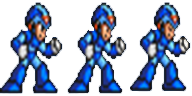
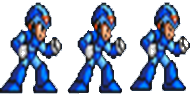
Thêm PlayerStandShootState , Sửa một vài sprite

diff --git a/DemoDirectX/GameObjects/Player/Player.cpp b/DemoDirectX/GameObjects/Player/Player.cpp
@@ -6,19 +6,21 @@
 #include "PlayerClingingState.h"
 #include "PlayerClingingJState.h"
 #include "PlayerDashState.h"
+#include "PlayerStandShootState.h"
 #include "../../GameComponents/GameCollision.h"
 
 float check = 0.0;
 bool isDone = false;
 Player::Player()
 {
-    mAnimationStanding = new Animation("Resources/megaman/pic10.png", 3, 1, 3, 0.2f);
-    mAnimationJumping = new Animation("Resources/megaman/pic4.png", 7, 1, 7, 0.1f);
-    mAnimationRunning = new Animation("Resources/megaman/pic2.png", 11, 1, 11, 0.15f);
-	mAnimationSpawning = new Animation("Resources/megaman/pic7.png", 7, 1, 7, 0.15f);	
+    mAnimationStanding = new Animation("Resources/megaman/standing.png", 3, 1,3 , 1.0f);
+    mAnimationJumping = new Animation("Resources/megaman/pic3.png", 7, 1, 7, 0.1f);
+    mAnimationRunning = new Animation("Resources/megaman/pic2.png", 11, 1, 11, 0.1f);
+	mAnimationSpawning = new Animation("Resources/megaman/pic7.png", 7, 1, 7, 0.2f);	
 	mAnimationClinging = new Animation("Resources/megaman/pic0.png", 3, 1, 3, 0.15f);
 	mAnimationClingingJ = new Animation("Resources/megaman/pic01.png", 2, 1, 2, 0.15f);
 	mAnimationDashing = new Animation("Resources/megaman/dash.png",2,1,2,0.2f,D3DCOLOR_XRGB(0,0,0));
+	mAnimationStandShoot = new Animation("Resources/megaman/standShoot.png", 2, 1, 2, 0.5f);
     this->mPlayerData = new PlayerData();
     this->mPlayerData->player = this;
     this->vx = 0;
@@ -239,6 +241,10 @@ void Player::changeAnimation(PlayerState::StateName state)
 			break;
 		case PlayerState::Dash:
 			mCurrentAnimation = mAnimationDashing;
+			break;
+		case PlayerState::StandShoot:
+			mCurrentAnimation = mAnimationStandShoot;
+			break;
         default:
             break;
     }
@@ -268,7 +274,7 @@ Player::MoveDirection Player::getMoveDirection()
 
 void Player::OnNoCollisionWithBottom()
 {
-    if (mCurrentState != PlayerState::Jumping && mCurrentState != PlayerState::Falling && mCurrentState!= PlayerState::Clinging && mCurrentState != PlayerState::ClingingJ)
+    if (mCurrentState != PlayerState::Jumping && mCurrentState != PlayerState::Falling && mCurrentState!= PlayerState::Clinging && mCurrentState != PlayerState::ClingingJ && mCurrentState !=PlayerState::StandShoot)
     {
         this->SetState(new PlayerFallingState(this->mPlayerData));
     }    

diff --git a/DemoDirectX/GameObjects/Player/PlayerStandShootState.cpp b/DemoDirectX/GameObjects/Player/PlayerStandShootState.cpp
@@ -1,0 +1,32 @@
+#include "PlayerStandShootState.h"
+#include "Player.h"
+#include "PlayerStandingState.h"
+#include "../../GameDefines/GameDefine.h"
+
+PlayerStandShootState::PlayerStandShootState(PlayerData *playerData)
+{
+	this->mPlayerData = playerData;
+	this->mPlayerData->player->SetVx(0);
+	this->mPlayerData->player->SetVy(0);
+}
+
+
+PlayerStandShootState::~PlayerStandShootState()
+{
+}
+
+void PlayerStandShootState::HandleKeyboard(std::map<int, bool> keys)
+{
+	if (keys[0x58]) {
+		return;
+	}
+	else {
+		this->mPlayerData->player->SetState(new PlayerStandingState(this->mPlayerData));
+		return;
+	}
+}
+
+PlayerState::StateName PlayerStandShootState::GetState()
+{
+	return PlayerState::StandShoot;
+}

diff --git a/DemoDirectX/GameObjects/Player/bullet.cpp b/DemoDirectX/GameObjects/Player/bullet.cpp
@@ -8,7 +8,7 @@ Bullet::Bullet(D3DXVECTOR3 pos,bool reverse)
 	mChargeBullet1 = new Animation("Resources/megaman/chargedbullet.png", 9, 1, 9, 0.1);
 	bullet->SetPosition(pos);
 	this->vx =0;
-	this->SetPosition(bullet->GetPosition().x + bullet->GetImageInfo().Width / 2, bullet->GetPosition().y + bullet->GetImageInfo().Height / 2);
+	this->SetPosition(bullet->GetPosition().x +bullet->GetImageInfo().Width / 2, bullet->GetPosition().y + bullet->GetImageInfo().Height / 2);
 	this->SetWidth(bullet->GetImageInfo().Width);
 	this->SetHeight(bullet->GetImageInfo().Height);
 	this->Tag = Entity::EntityTypes::BulletP;

diff --git a/DemoDirectX/GameObjects/Player/Player.h b/DemoDirectX/GameObjects/Player/Player.h
@@ -9,6 +9,7 @@
 #include "PlayerState.h"
 #include "PlayerRunningState.h"
 #include "bullet.h"
+#include "PlayerStandShootState.h"
 class Player : public Entity
 {
 public:
@@ -71,7 +72,8 @@ protected:
 		*mAnimationSpawning,
 		*mAnimationClinging,
 		*mAnimationClingingJ,
-		*mAnimationDashing;
+		*mAnimationDashing,
+		*mAnimationStandShoot;
 
 	vector <Bullet*> bulletlist;
     PlayerState::StateName mCurrentState;

diff --git a/DemoDirectX/GameObjects/Player/PlayerStandingState.cpp b/DemoDirectX/GameObjects/Player/PlayerStandingState.cpp
@@ -22,6 +22,10 @@ void PlayerStandingState::HandleKeyboard(std::map<int, bool> keys)
         this->mPlayerData->player->SetState(new PlayerRunningState(this->mPlayerData));
         return;
     }
+	if (keys[0x58]) {
+		this->mPlayerData->player->SetState(new PlayerStandShootState(this->mPlayerData));
+		return;
+	}
 }
 
 PlayerState::StateName PlayerStandingState::GetState()

diff --git a/DemoDirectX/GameObjects/Player/PlayerStandShootState.h b/DemoDirectX/GameObjects/Player/PlayerStandShootState.h
@@ -1,0 +1,17 @@
+#pragma once
+#include "PlayerState.h"
+
+class PlayerStandShootState : public PlayerState
+{
+public:
+	PlayerStandShootState(PlayerData *playerData);
+	~PlayerStandShootState();
+	void HandleKeyboard(std::map<int, bool> keys);
+
+
+	virtual StateName GetState();
+
+protected:
+};
+
+#pragma once

diff --git a/DemoDirectX/GameObjects/Player/PlayerState.h b/DemoDirectX/GameObjects/Player/PlayerState.h
@@ -17,7 +17,8 @@ public:
 		Spawning,
 		Clinging,
 		ClingingJ,
-		Dash
+		Dash,
+		StandShoot
     };
 
     ~PlayerState();
